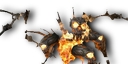
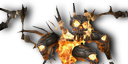
Make the guide box mean something
The white box told you how to frame a shot and then nothing carried that across:
the tool crops to the outline of everything that is not backdrop, so a model
framed exactly inside the box was still cut to its full height, legs and the lit
ground under them included, and the portrait's 61 points were spent on those.
That is the whole of the gap that four reshoots could not close by hand.

So the studio now prints the guide rectangle in screenshot pixels beside the
boss's name, and build takes it as --crop. Measured on the four Harbinger
plates: 15-25% of the result is solid pixels cropped to the creature, 30-38%
cropped to the guide. Retail's own art sits at 34-37%.

Harbinger of Sin is rebuilt that way and lands at 34.7%, with no backdrop
surviving anywhere in it.

The Lua half has not been in game yet; the crop it computes was reproduced here
from the studio's own constants and the frame edges visible in the plates, and
it agrees with the four shots to a pixel.

diff --git a/tools/make_bossportrait.py b/tools/make_bossportrait.py
@@ -8,6 +8,15 @@ every time, which is the whole of this script.
     python tools/make_bossportrait.py build shot.png LynTheIgnored
     python tools/make_bossportrait.py build shot.png LynTheIgnored --tolerance 40
     python tools/make_bossportrait.py build "<retail UI-EJ-BOSS art>.blp" TheButcher
+    python tools/make_bossportrait.py build shot.png Boss --crop 1596,813,648,309
+
+`--crop` is the rectangle the portrait studio prints beside each shot, and it is
+the guide box the studio drew on screen. Pass it. Everything below crops to the
+outline of whatever is not backdrop, so without it a shot framed perfectly inside
+the box is still cut to the whole creature: measured on one plate, 18% of the
+result was solid pixels cropped to the creature and 36% cropped to the box, and
+the shipped and retail portraits sit at 34-55%. The difference is entirely legs
+and the lit ground under them.
 
 It writes `images/UIEJBoss<Name>.png` and prints the line to paste into the
 encounter. What it cannot do is produce the model: that still comes from the game,
@@ -256,9 +265,28 @@ def add_shadow(im, offset=SHADOW_OFFSET, radius=SHADOW_RADIUS,
     return Image.alpha_composite(shadow, im)
 
 
+def parse_crop(text):
+    """`x,y,w,h` as the portrait studio prints it, in screenshot pixels."""
+    if not text:
+        return None
+    parts = [p.strip() for p in text.replace(" ", "").split(",")]
+    if len(parts) != 4 or not all(p.lstrip("-").isdigit() for p in parts):
+        sys.exit("--crop wants four numbers, x,y,w,h -- got %r" % text)
+    x, y, w, h = (int(p) for p in parts)
+    if w <= 0 or h <= 0:
+        sys.exit("--crop width and height must be positive")
+    return (x, y, x + w, y + h)
+
+
 def build(source, tolerance=32, target_height=TARGET_HEIGHT, centre_x=CENTRE_X,
-          erode_px=None, shadow=True):
+          erode_px=None, shadow=True, crop=None):
     im = open_any(source)
+    if crop:
+        # The guide box, as the studio measured it on screen. Taking it before
+        # anything else is the whole point: the steps below crop to the outline
+        # of what is left, so whatever is still in the picture -- the legs, and
+        # the lit ground they stand on -- is what the 61pt height gets spent on.
+        im = im.crop(crop)
     if im.size == (WIDTH, HEIGHT) and has_alpha(im):
         if shadow:
             return add_shadow(im), "already a portrait, shadow added"
@@ -300,7 +328,7 @@ def build(source, tolerance=32, target_height=TARGET_HEIGHT, centre_x=CENTRE_X,
 
 def cmd_build(args):
     out, note = build(args.source, args.tolerance, args.height, args.centre_x,
-                      args.erode, not args.no_shadow)
+                      args.erode, not args.no_shadow, parse_crop(args.crop))
     name = args.name
     for prefix in ("I.UIEJBoss", "UIEJBoss"):
         if name.startswith(prefix):
@@ -441,6 +469,9 @@ def main():
     b = sub.add_parser("build", help="make images/UIEJBoss<Name>.png")
     b.add_argument("source", help="PNG, JPEG or BLP of the model")
     b.add_argument("name", help="boss name, no spaces, e.g. LynTheIgnored")
+    b.add_argument("--crop", metavar="X,Y,W,H",
+                   help="keep only this rectangle of the source; the portrait "
+                        "studio prints the guide box in this form beside each shot")
     b.add_argument("--tolerance", type=int, default=32,
                    help="how close to the corner colour still counts as background")
     b.add_argument("--height", type=int, default=TARGET_HEIGHT,

diff --git a/tools/README.md b/tools/README.md
@@ -398,11 +398,19 @@ counts is how much of its own bounding box a portrait fills with solid pixels:
 | the hand-made portraits | 34-55% |
 | retail's own | 34-37% |
 | full-body shots of the same model | 9-26% |
-| the upper body alone, same shots | 28% |
+| the same four shots, cropped to the guide box | 30-38% |
 
 Below about 25% a creature stops reading as itself and becomes scattered specks.
 Retail frames the same model the same way, which is worth noticing before deciding
 their art is simply better drawn.
+
+**Pass `--crop`.** The white guide box in the studio was advice and nothing more
+until the two halves were joined: the tool crops to the outline of everything that
+is not backdrop, so a shot framed perfectly inside the box was still cut to the
+whole creature, legs and all. The studio now prints the box as a pixel rectangle
+beside each shot -- `--crop 1596,813,648,309` -- and that rectangle is the framing.
+The four Harbinger plates measure 15-25% of their box cropped to the creature and
+30-38% cropped to the guide; they are the same four shots.
 
 Cropping above the feet also loses the **ground glow**, which is the other thing
 that ruins a shot. A model standing in its own light pools that light on the floor,
